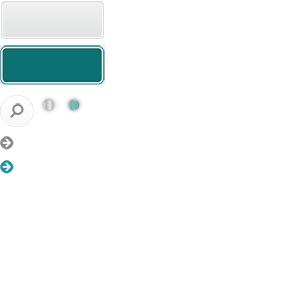
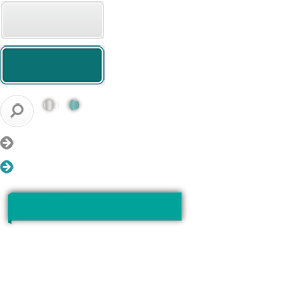
add info page

Changed region(s): [[0.0, 0.6, 0.63, 0.75]]

diff --git a/static/info.html b/static/info.html
@@ -1,0 +1,119 @@
+<!DOCTYPE html>
+<html>
+<head>
+<meta charset="utf-8">
+<title>详情页面</title>
+<meta name="description" content="">
+<meta name="keywords" content="">
+<!--[if lt IE 9]><script type="text/javascript" src="http://html5shiv.googlecode.com/svn/trunk/html5.js"></script><![endif]-->
+<script type="text/javascript" src="js/jquery.min.js"></script>
+<link type="text/css" rel="stylesheet" href="css/base.css" />
+</head>
+<body>
+    <section class="wrapper page_module_info">
+        <!-- header -->
+        <div class="top_line_bg"></div>
+        <header class="header">
+            <h1 class="logo"><a href="index.html"><img src="images/logo.png" /></a></h1>
+            <div class="top_bar">
+                <div class="nav">
+                    <ul class="clearfix">
+                        <li><a href="#">首页</a></li>
+                        <li><a href="#"  class="current">中关村CID</a></li>
+                        <li><a href="#">走进园区</a></li>
+                        <li><a href="#">关于我们</a></li>
+                        <li><a href="#">新闻中心</a></li>
+                    </ul>
+                </div>
+                <div class="sub_nav">
+                    <ul class="clearfix">
+                        <li><a href="">政策规划</a></li>
+                        <li><a href="" class="current">硅谷绿心</a></li>
+                        <li><a href="">发展价值</a></li>
+                        <li><a href="">区位交通</a></li>
+                    </ul>
+                </div>
+                <div class="search_bar">
+                    <form action="">
+                        <input type="text" placeholder="搜索" class="search_text">
+                        <span class="ico search_btn"></span>
+                    </form>
+                </div>
+            </div>
+        </header>
+        <!-- banner -->
+        <section class="banner"></section>
+        <section class="main_container">
+            <section class="inner clearfix">
+                <aside class="sidebar">
+                    <div class="category">
+                        <span class="cn">总部产品中心</span>
+                        <span class="en">Headquarters Products</span>
+                    </div>
+                    <ul class="switch_tab">
+                        <li>总部建筑</li>
+                        <li class="current">艺术建筑</li>
+                        <li>创智空间</li>
+                        <li>云端会所</li>
+                        <li>电子沙盘</li>
+                        <li>图片赏析</li>
+                    </ul>
+                </aside>
+                <article class="product_info switch_content">
+                    <section class="swicth_content_section art_build">
+                        <h2 class="headline">
+                            <span class="en">China Wisdom The World To Share</span>
+                            <span class="cn">启发灵感的美学创意建筑</span>
+                            <i class="adorn_line"></i>
+                        </h2>
+                        <section class="detail clearfix">
+                            <div class="col-2-1">
+                                <p>以浓厚的学院派风格打造中关村唯一艺术建筑群，<br/>营造科技、人文、艺术的总部地标</p>
+                                <div class="section">
+                                    <div class="title_l">
+                                        <span class="cn">科技反哺建筑，<br/>环保陶土板外幕墙</span>
+                                        <span class="en">China Wisdom<br/> The World To Share</span>
+                                    </div>
+                                    <div class="content_r">
+                                        <p>建筑外立面采用绿色环保陶土板幕墙，天然陶土为原料，无辐射，色泽温和，让人惊叹的自洁能力，保证建筑永恒如新。以工业时代的精准、信息时代的高效，为整个园区营造一种科技、人文、艺术园区氛围。</p>
+                                    </div>
+                                </div>
+                            </div>
+                            <div class="col-2-2">
+                                <img src="images/art_build.jpg" alt="">
+                                <img src="images/art_build_2.jpg" alt="">
+                            </div>
+                        </section>
+                    </section>
+                    
+
+                    
+                   <!--  <section class="detail clearfix">
+                        <div class="col-2-1">
+                            <p>
+                                建筑外立面采用绿色环保陶土板幕墙，天然陶土为原料，无辐射，色泽温和，让人惊叹的自洁能力，保证建筑永恒如新。以工业时代的精准、信息时代的高效，为整个园区营造一种科技、人文、艺术园区氛围。
+                            </p>
+                        </div>
+                        <div class="col-2-2">
+                            <img src="images/art_build_2.jpg" alt="">
+                        </div>
+                    </section>
+ -->
+                </article>
+            </section>
+        </section>
+        <footer class="footer">
+            <div class="container">
+                <div class="col-1">
+                    <p>VIP+8610- <strong>6248 6688</strong>项目地址：北京市海淀区温泉镇高里掌路1号&nbsp;&nbsp;|&nbsp;&nbsp;开发商：北京福泉投资有限公司
+                </div>
+                <div class="col-2">
+                    <img src="images/scan.jpg"  class="scan"/>
+                    <p>Copyright <br/>2010-2014 I-town.com All Right Reserved.</p>
+                </div>
+                </p>
+            </div>
+        </footer>
+    </section>
+</body>
+</html>

diff --git a/static/css/base.css b/static/css/base.css
@@ -10,18 +10,12 @@ input, textarea{outline: none;}
 .fl{float: left;}
 .fr{float: right;}
 .fn{float: none;}
-.f12{font-size: 12px;}
-.f14{font-size: 14px;}
-.f16{font-size: 16px;}
-.f18{font-size: 18px;}
 .tl{text-align: left;}
 .tr{text-align: right;}
 .tc{text-align: center;}
 body{font-size: 12px;font-family:"Microsoft YaHei","宋体";position: relative;}
-.ico,.focus_slide .btn a,.top_bar .nav ul li a,.top_bar .sub_nav li a{background-image: url(../images/icons.png); background-repeat: no-repeat; display: inline-block;}
-
-
-
+.ico,.focus_slide .btn a,.top_bar .nav ul li a,.top_bar .sub_nav li a,.sidebar .switch_tab li:hover,.sidebar .switch_tab li.current{background-image: url(../images/icons.png); background-repeat: no-repeat; display: inline-block;}
+.en{font-family: Arial;}
 .wrapper{
 	min-width: 1024px;
 	margin: 0 auto;
@@ -175,7 +169,7 @@ body{font-size: 12px;font-family:"Microsoft YaHei","宋体";position: relative;}
 	margin-top: -160px;
 	padding-bottom: 15px;
 }
-.main_container .inner{
+.page_module_list .main_container .inner{
 	width: 970px;
 	padding: 15px;
 	margin: 0 auto;
@@ -250,10 +244,121 @@ body{font-size: 12px;font-family:"Microsoft YaHei","宋体";position: relative;}
 	margin: 1em 0;
 }
 
+.page_module_info .banner{
+	background: url(../images/info_banner.jpg) no-repeat center top;
+	height: 482px;
+}
+.page_module_info{
+	background: #fffefe;
+}
+.page_module_info .inner{
+	width: 1000px;
+	margin: 0 auto;
+}
+.sidebar{
+	width: 175px;
+	float: left;
+	margin-right: 10px;
+	background: #fff;
+	box-shadow: 0px 0px 5px rgba(197,197,198,0.6);
+}
+.sidebar .category{
+	padding: 25px 0 15px;
+	background: url(../images/info_sidebar_category.png) repeat-x center bottom;
+}
+.sidebar .category span{
+	display: block;
+	font-size: 16px;
+	text-align: center;
+}
+.sidebar .category .cn{
+	color: #6a6c6b;
+}
+.sidebar .category .en{
+	color: #00a29a;
+}
+.sidebar .switch_tab li{
+	text-align: center;
+	cursor: pointer;
+	height: 46px;
+	line-height: 46px;
+	color:#6a6c6b;
+	width: 100%;
+}
+.sidebar .switch_tab li:hover,.sidebar .switch_tab li.current{
+	background-position: -10px -184px;
+	color: #fff;
+}
 
+.product_info{
+	background: #fff;
+	width: 725px;
+	float: left;
+	box-shadow: 0px 0px 5px rgba(197,197,198,0.6);
+	padding: 20px 45px 0;
+}
+.product_info .headline{
+	padding-left: 0;
+	padding-bottom: 20px;
+}
+.product_info .headline .adorn_line{
+	margin-bottom: 11px;
+}
+.product_info .headline .cn{
+	font-size: 24px;
 
-
-
-
+}
+.product_info .headline .en{
+	font-size: 26px;
+}
+.product_info .col-2-1{
+	width: 58%;
+	float: left;
+}
+.product_info .col-2-2{
+	width: 40%;
+	float: left;
+	text-align: center;
+	padding-left: 2%;
+}
+.art_build .detail{
+	margin-top: 10px;
+	color: #898989;
+}
+.art_build .detail p{
+	line-height: 26px;
+	margin: 1em 0;
+}
+.art_build .detail img{
+	margin-bottom: 20px;
+	vertical-align: bottom;
+}
+.art_build .section{
+	margin-top: 60px;
+	border-top: 1px solid #65b7b1;
+	padding-top: 30px;
+}
+.art_build .section .title_l{
+	width: 160px;
+	margin-right: 15px;
+	float: left;
+	margin-top: 1em;
+}
+.art_build .section .title_l span{
+	display: block;
+}
+.art_build .section .title_l .cn{
+	font-size: 15px;
+	color: #6a6c6b;
+	margin-bottom: 10px;
+}
+.art_build .section .title_l .en{
+	font-size: 16px;
+	color: #00a29a;
+}
+.art_build .section .content_r{
+	position: relative;
+	margin-left: 175px;
+}
 
 

diff --git a/static/headquarters_list.html b/static/headquarters_list.html
@@ -44,7 +44,7 @@
         <!-- banner -->
         <section class="banner"></section>
         <section class="main_container">
-            <div class="inner">
+            <section class="inner">
                 <img src="images/headquarters_thumb.png" class="headquarters_thumb">
                 <div class="headline">
                     <h1><span class="cn">总部产品中心</span><span class="en">Headquarters Products</span><i class="adorn_line"></i></h1>
@@ -99,7 +99,7 @@
                         <p>翠湖云中心600-2700㎡总部专属空间，为不同创智企业提供独栋式总部、独立式总部、专属式总部三大形态</p>
                     </li>
                 </ul>
-            </div>
+            </section>
         </section>
         <footer class="footer">
             <div class="container">
